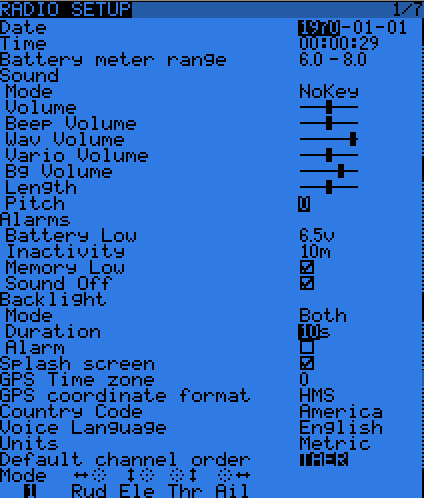
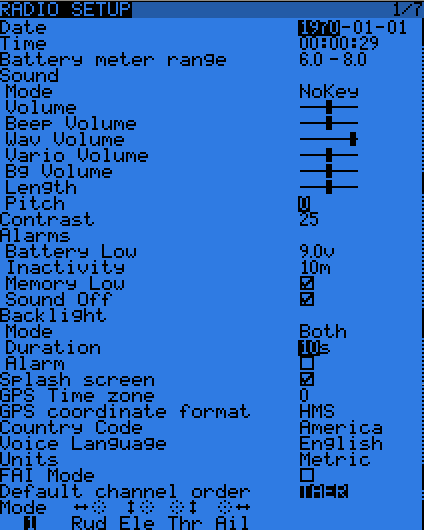
[Wiki] Taranis manual - Telemetry/RSSI details, minor other additions Issue 116 Issue 118 Issue 105 [Taranis] SD Info/Format were unreachable

diff --git a/trunk/src/translations/en.h b/trunk/src/translations/en.h
@@ -53,8 +53,8 @@
 #define LEN_VRENAVIG           "\003"
 #define TR_VRENAVIG            "No REaREb"
 
-#define LEN_VBLMODE            TR("\004", "\006")
-#define TR_VBLMODE             TR("OFF\0""Keys""Stks""Both""ON\0", "OFF\0  ""Keys\0 ""Inputs""Both\0 ""ON\0")
+#define LEN_VBLMODE            TR("\004", "\010")
+#define TR_VBLMODE             TR("OFF\0""Keys""Ctrl""Both""ON\0 ", "OFF\0    ""Keys\0   ""Controls""Both\0   ""ON\0     ")
 
 #define LEN_TRNMODE            "\003"
 #define TR_TRNMODE             "OFF"" +="" :="
@@ -465,7 +465,7 @@
 #define TR_VTRIM               "Trim- +"
 #define TR_BG                  "BG:"
 #define TR_MENUTOSTART         CENTER "\006" TR_ENTER " TO START"
-#define TR_SETMIDPOINT         CENTER "\003SET STICKS MIDPOINT"
+#define TR_SETMIDPOINT         TR(CENTER "\003SET STICKS MIDPOINT",CENTER "\003CENTER STICKS/SLIDERS")
 #define TR_MOVESTICKSPOTS      CENTER "\006MOVE STICKS/POTS"
 #define TR_RXBATT              "Rx Batt:"
 #define TR_TXnRX               "Tx:\0Rx:"

diff --git a/trunk/src/gui/menu_general.cpp b/trunk/src/gui/menu_general.cpp
@@ -742,6 +742,15 @@ void menuGeneralSdManager(uint8_t event)
       // no break;
     }
 
+#if defined(PCBTARANIS)
+    case EVT_KEY_LONG(KEY_MENU):
+      killEvents(event);
+//      MENU_ADD_ITEM(STR_SD_INFO);  TODO: Implement
+      MENU_ADD_ITEM(STR_SD_FORMAT);
+      menuHandler = onSdManagerMenu;
+      break;
+#endif
+
     case EVT_KEY_LONG(KEY_ENTER):
       killEvents(event);
       if (m_posVert == 0) {
@@ -767,8 +776,8 @@ void menuGeneralSdManager(uint8_t event)
 #endif
 #endif
         MENU_ADD_ITEM(STR_DELETE_FILE);
-        MENU_ADD_ITEM(STR_RENAME_FILE);
-        MENU_ADD_ITEM(STR_COPY_FILE);
+//       MENU_ADD_ITEM(STR_RENAME_FILE);  TODO: Implement
+//       MENU_ADD_ITEM(STR_COPY_FILE);    TODO: Implement
       }
       menuHandler = onSdManagerMenu;
       break;

diff --git a/trunk/src/translations/fr.h b/trunk/src/translations/fr.h
@@ -53,8 +53,8 @@
 #define LEN_VRENAVIG     "\003"
 #define TR_VRENAVIG      "NonREaREb"
 
-#define LEN_VBLMODE      "\004"
-#define TR_VBLMODE       "OFF\0""Btns""Stks""Tout""ON\0"
+#define LEN_VBLMODE      TR("\004","\011")
+#define TR_VBLMODE       TR("OFF\0""Btns""Ctrl""Tous""ON\0","OFF\0     ""Touches\0 ""Controles""Tous\0    ""ON\0      ")
 
 #define LEN_TRNMODE      "\003"
 #define TR_TRNMODE       "OFF"" +="" :="
